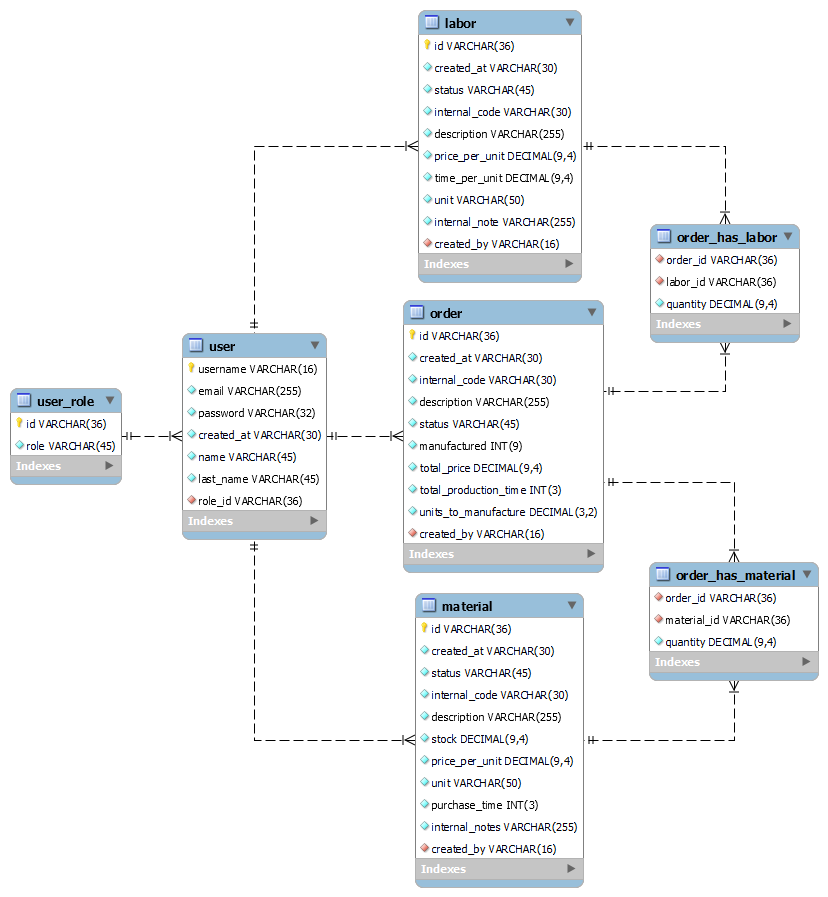
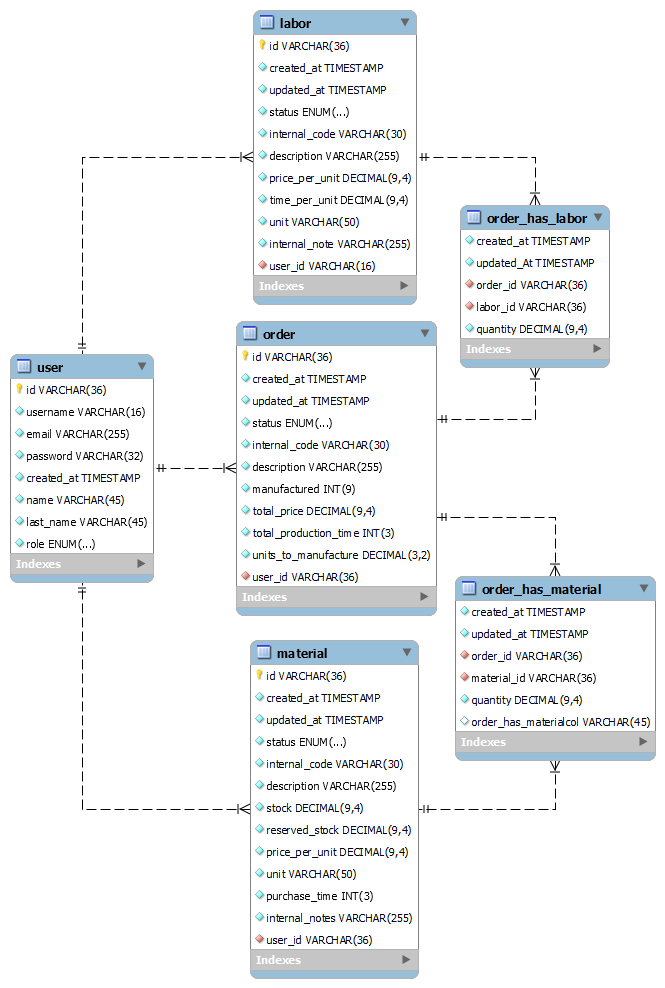
Update content

diff --git a/app_architecture/README.md b/app_architecture/README.md
@@ -2,15 +2,6 @@
 
 ## Brief explanation
 
-### user_role
-
-Table that stores different user roles, each user have different capabilities for creating and updating tables.;
-
-- **sales**: can create and update a production order.
-- **inventory administrator**: can create and update materials.
-- **production manager**: can create and update labors, can update manufactured quantity and status in a production order.
-- **admin**: can perform all actions.
-
 ### user
 
 Table that contains user information.
@@ -20,6 +11,7 @@ Table that contains user information.
 Table that contains information about labors.
 
 - **created_at:** creation date of the resource
+  **updated_at:** update date of the resource
 - **status:**
   - active: is labor still in use
   - inactive: labor is not in use or its want to be considered as deleted.
@@ -30,12 +22,18 @@ Table that contains information about labors.
 - **unit:** the unit of labor. Example: "per square meter", "per unit", "per hole", "per nailed nail".
 - **internal_note**
 - **created_by:** user that created the resource.
+- **role**: the user can have one of the following roles.
+  - **sales**: can create and update a production order.
+  - **inventory administrator**: can create and update materials.
+  - **production manager**: can create and update labors, can update manufactured quantity and status in a production order.
+  - **admin**: can perform all actions.
 
 ### order
 
 Table that contains information about production order.
 
-- **created_by:** user that created the resource.
+- **created_by:** user that created the resource
+  **updated_at:** update date of the resource
 - **internal_code:** identification code for the company, it is not stored as primary key so it can be modified.
 - **description**
 - **status:**
@@ -53,12 +51,14 @@ Table that contains information about production order.
 Table that contains information about the materials.
 
 - **created_at:** creation date of the resource
+- **updated_at:** update date of the resource
 - **status:**
   - active: material still in use
   - inactive: material is not in use or its want to be considered as deleted.
 - **internal_code:** identification code for the company, it is not stored as primary key so it can be modified.
 - **description**
 - **stock**: available quantity of the material.
+- **reserved_stock**: planed material to be used in production orders. When a production order is created, stock corresponding quantity of a material will decrease and reserved_stock will increase by the same quantity. When a furniture is manufactured, the corresponding quantity of material will be taken from reserved_Stock.
 - **price_per_unit:** prince en euros per unit of material.
 - **unit:** the unit of material. Example: "meters", "kilograms", "pounds".
 - **purchase_time:** necessary time in minutes for having the material available when it runs out of stock.
@@ -69,6 +69,8 @@ Table that contains information about the materials.
 
 Table that contains all the labors present in a manufacture order.
 
+- **created_at:** creation date of the resource
+- **updated_at:** update date of the resource
 - **order_id**: the production order id
 - **labor_id**: the labor id present in the manufacture order
 - **quantity**: the quantity of the labor.
@@ -77,9 +79,33 @@ Table that contains all the labors present in a manufacture order.
 
 Table that contains all the materials present in a manufacture order.
 
+- **created_at:** creation date of the resource
+- **updated_at:** update date of the resource
 - **order_id**: the production order id
 - **material_id**: the material id present in the manufacture order
 - **quantity**: the material quantity.
+
+## Relationship between tables
+
+### user -> labor
+
+An user can create many labors, each labor contains the user_id that created the labor.
+
+### user -> order
+
+An user can create many orders, each order contains the user_id that created the order.
+
+### user -> material
+
+An user can create many materials, each material contains the user_id that created the material.
+
+### order -> order_has_labor <- labor
+
+An order can contain many labors, and a labor can be in many orders, the table order_has_labor allows to create the relationship many to many.
+
+### order -> order_has_material <- material
+
+An order can contain many materials, and a material can be in many orders, the table order_has_material allows to create the relationship many to many.
 
 ## EER diagram
 
